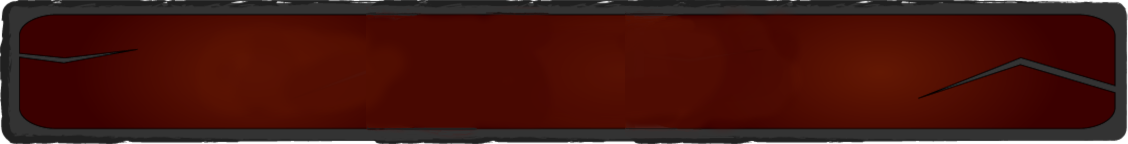
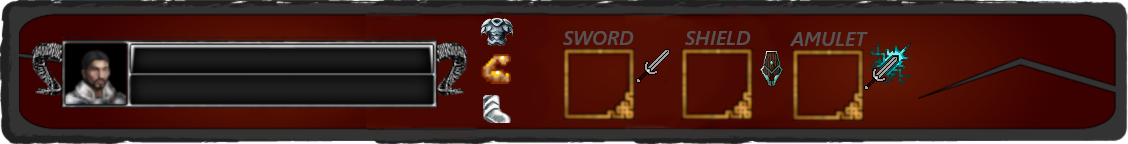
Segunda versão da HUD

Changed region(s): [[0.031, 0.1111, 0.4654, 0.8611], [0.4965, 0.1944, 0.8067, 0.8333]]

diff --git a/versao_final/Views/HUD.py b/versao_final/Views/HUD.py
@@ -1,4 +1,9 @@
+from cgitb import text
+from msilib.schema import Font
 from pygame import Rect, Surface
+from copy import deepcopy
+
+import pygame
 from Config.Opcoes import Opcoes
 from Config.TelaJogo import TelaJogo
 from Personagens.Status import Status
@@ -8,12 +13,28 @@ from Utils.Folder import import_single_sprite
 class HUD:
     __PATH = 'Assets/HUD/Fundo.png'
     __SIZE = Opcoes().TAMANHO_HUD
+    __DEFENSE_POS = (525, 34)
+    __STRENGTH_POS = (525, 70)
+    __VEL_POS = (525, 110)
+    __DAMAGE_POS = (650, 110)
+    __SHIELD_POS = (775, 110)
+    __CRITICAL_CHANCE_POS = (885, 110)
 
     def __init__(self, status: Status) -> None:
+        self.__status_inicial = deepcopy(status)
         self.__status = status
         self.__posicao = Opcoes().POSICAO_HUD
         self.__image = import_single_sprite(HUD.__PATH, HUD.__SIZE)
         self.__rect = self.__image.get_rect(topleft=self.__posicao)
+        self.__text_size = 20
+        self.__font = self.__load_font()
+        self.__color = (149, 90, 29)
+
+    def __load_life_bars(self) -> Surface:
+        pass
+
+    def __load_font(self) -> Font:
+        return pygame.font.SysFont('Candara', self.__text_size)
 
     def image(self) -> Surface:
         return self.__image
@@ -26,3 +47,33 @@ class HUD:
 
     def desenhar(self, tela: TelaJogo):
         tela.janela.blit(self.__image, self.__rect)
+        defesa = f'{self.__status.defesa}'
+        vel = f'{self.__status.vel}'
+        strength = f'{self.__status.ataque}'
+        dano = f'X'
+        defesa_escudo = f'X'
+        chance_critica = f'X'
+
+        defesa_surf = self.__font.render(defesa, False, self.__color)
+        defesa_rect = defesa_surf.get_rect(center=HUD.__DEFENSE_POS)
+        tela.janela.blit(defesa_surf, defesa_rect)
+
+        vel_surf = self.__font.render(vel, False, self.__color)
+        vel_rect = vel_surf.get_rect(center=HUD.__VEL_POS)
+        tela.janela.blit(vel_surf, vel_rect)
+
+        strength_surf = self.__font.render(strength, False, self.__color)
+        strength_rect = strength_surf.get_rect(center=HUD.__STRENGTH_POS)
+        tela.janela.blit(strength_surf, strength_rect)
+
+        dano_surf = self.__font.render(dano, False, self.__color)
+        dano_rect = dano_surf.get_rect(center=HUD.__DAMAGE_POS)
+        tela.janela.blit(dano_surf, dano_rect)
+
+        defesa_escudo_surf = self.__font.render(defesa_escudo, False, self.__color)
+        defesa_escudo_rect = defesa_escudo_surf.get_rect(center=HUD.__SHIELD_POS)
+        tela.janela.blit(defesa_escudo_surf, defesa_escudo_rect)
+
+        chance_critica_surf = self.__font.render(chance_critica, False, self.__color)
+        chance_critica_rect = chance_critica_surf.get_rect(center=HUD.__CRITICAL_CHANCE_POS)
+        tela.janela.blit(chance_critica_surf, chance_critica_rect)
